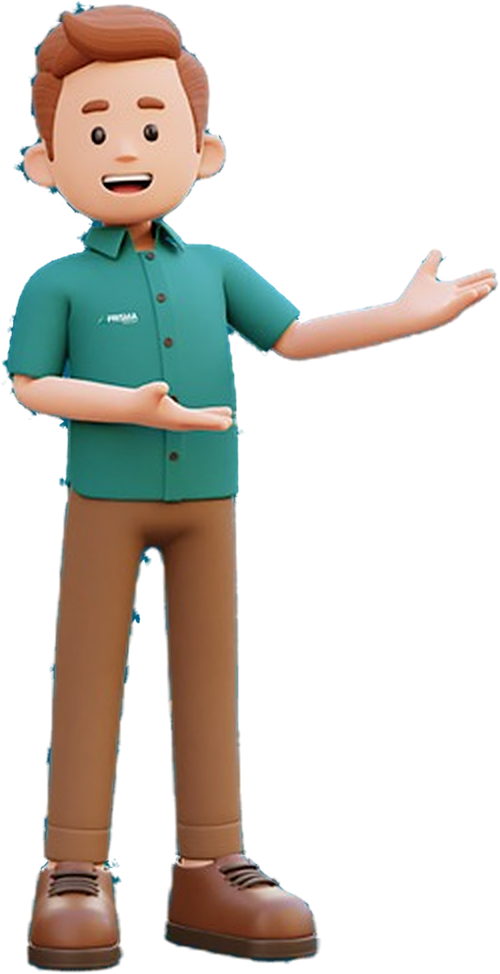
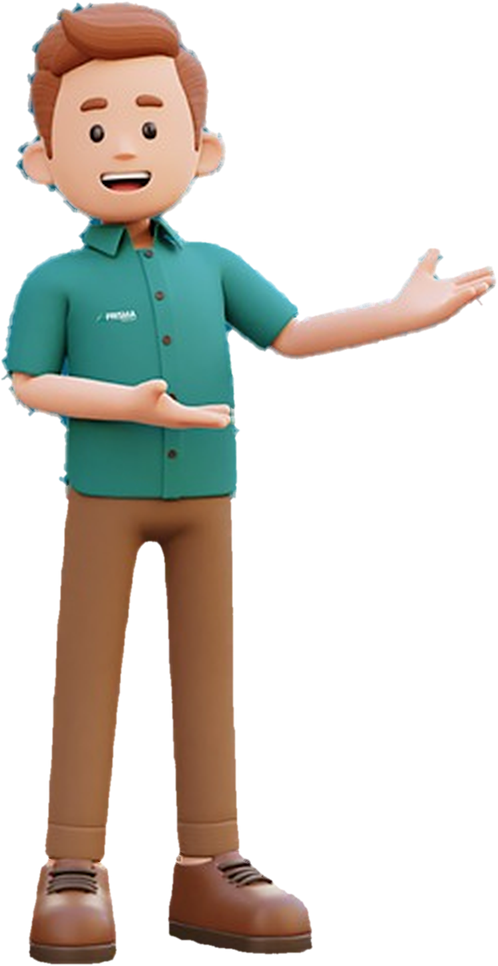
Mascote: recorte limpo (sem restos azuis); Voltar: cabeçalhos no-store e bloco atualizável no aplicar.sh
Claude-Session: https://claude.ai/code/session_01HdKHX4MgYy3BSAUchSo52J

diff --git a/docs/patches/painel-antigo/seletor-painel/aplicar.php b/docs/patches/painel-antigo/seletor-painel/aplicar.php
@@ -40,7 +40,7 @@ $html = <<<'H'
 
 H;
 $E1 = '/* IPBX-PAINEL-ENTRADA */'; $E2 = '/* /IPBX-PAINEL-ENTRADA */';
-$entrada = "    $E1\n    if (\$_SERVER['REQUEST_METHOD'] === 'GET' && !isset(\$_GET['menu']) && !isset(\$_GET['classico']) && (\$_COOKIE['ipbx_painel'] ?? '') === 'novo' && is_file(__DIR__ . '/seletor.php')) { header('Location: seletor.php?ir=novo'); exit; }\n    $E2\n";
+$entrada = "    $E1\n    if (\$_SERVER['REQUEST_METHOD'] === 'GET' && !isset(\$_GET['menu'])) {\n        header('Cache-Control: no-store, no-cache, must-revalidate, max-age=0'); header('Pragma: no-cache');\n        if (!isset(\$_GET['classico']) && (\$_COOKIE['ipbx_painel'] ?? '') === 'novo' && is_file(__DIR__ . '/seletor.php')) { header('Location: seletor.php?ir=novo'); exit; }\n    }\n    $E2\n";
 $php = "    $P1\n    if ((\$_POST['painel'] ?? '') === 'novo' && is_file(__DIR__ . '/seletor.php')) return 'seletor.php?ir=novo';\n    $P2\n";
 
 $tpl = file_get_contents($theme); $idx = file_get_contents($index);
@@ -53,6 +53,7 @@ if ($undo) {
         if (!preg_match('#<div class="form-group">\s*<button type="submit"#', $tpl, $m, PREG_OFFSET_CAPTURE)) { fwrite(STDERR, "Ponto de inserção do botão Entrar não encontrado no login.tpl\n"); exit(2); }
         $tpl = substr_replace($tpl, $html . "\t\t\t\t", $m[0][1], 0);
     }
+    $idx = preg_replace('#\n[ \t]*' . preg_quote($E1, '#') . '.*?' . preg_quote($E2, '#') . '[ \t]*\n#s', "\n", $idx, 1);
     if (strpos($idx, $E1) === false) {
         if (!preg_match('#(\$postLogin = get_post_login_redirect\(\$pACL, \$_SESSION\[\'issabel_user\'\]\);\s*if \(\$postLogin !== \'index\.php\'\) \{.*?\n\s*\}\n)#s', $idx, $m2, PREG_OFFSET_CAPTURE)) { fwrite(STDERR, "Ponto de inserção (sessão ativa) não encontrado no index.php\n"); exit(4); }
         $at = $m2[0][1] + strlen($m2[0][0]);

diff --git a/docs/patches/painel-antigo/seletor-painel/seletor.php b/docs/patches/painel-antigo/seletor-painel/seletor.php
@@ -4,6 +4,7 @@
  * Arquivo NOVO: copiar para /var/www/html/seletor.php. Não altera nenhum arquivo existente.
  * Usa a sessão e a base de acessos do painel clássico; não lê nem copia senhas.
  */
+header('Cache-Control: no-store, no-cache, must-revalidate, max-age=0');
 ini_set('include_path', dirname($_SERVER['SCRIPT_FILENAME']) . "/libs:" . ini_get('include_path'));
 include_once "libs/misc.lib.php";
 include_once "configs/default.conf.php";
